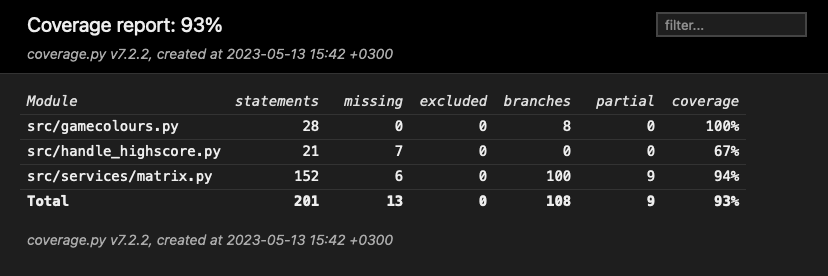
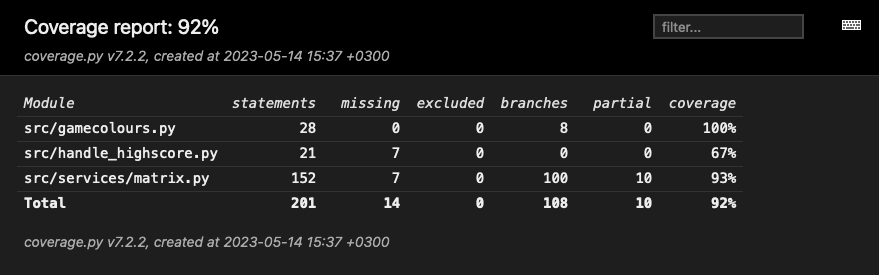
vielä

diff --git a/2048-peli/src/ui/won.py b/2048-peli/src/ui/won.py
@@ -10,16 +10,16 @@ class Won:
 
     def you_won(self, ending_matrix):
         while self.run:
-            self.screen.fill((205, 170, 125))
+            self.screen.fill((230, 230, 250))
             winner_message = self.font.render(
-                "you won!! secret: for the next time you start playing,", True, (0, 0, 0))
+                "you won!!!! secret for the next time you open the game:", True, (0, 0, 0))
             winner_message2 = self.font.render(
                 "you can unlock weird tiles by pressing 7", True, (0, 0, 0))
             restart_instructions = self.font.render(
                 "Start again by pressing space!", True, (0, 0, 0))
             self.screen.blit(winner_message, (34, 160))
-            self.screen.blit(winner_message2, (50, 200))
-            self.screen.blit(restart_instructions, (100, 260))
+            self.screen.blit(winner_message2, (85, 200))
+            self.screen.blit(restart_instructions, (120, 260))
             pygame.display.update()
             for event in pygame.event.get():
                 if event.type == pygame.KEYDOWN and event.key == pygame.K_SPACE:

diff --git a/2048-peli/dokumentaatio/testausdokumentti.md b/2048-peli/dokumentaatio/testausdokumentti.md
@@ -12,7 +12,7 @@ Sovelluslogiikasta vastaavaa `Matrix`-luokkaa testataan [matrix_test.py -tiedost
 
 ### Testauskattavuus
 
-Ottamatta huomioon User Interface-luokkia, sovelluksen testauksen haarautumakattavuus on 93%
+Ottamatta huomioon User Interface-luokkia, sovelluksen testauksen haarautumakattavuus on 92%
 
 ![](https://github.com/irismayigyu/ot-harjoitustyo/blob/master/2048-peli/dokumentaatio/kuvat/coveragereport.png)
 
